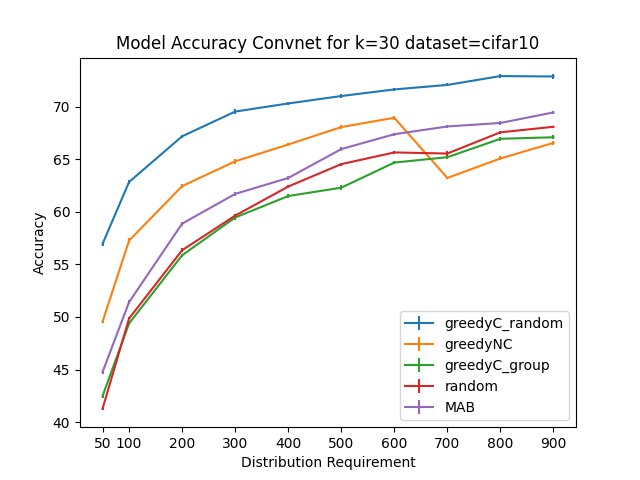
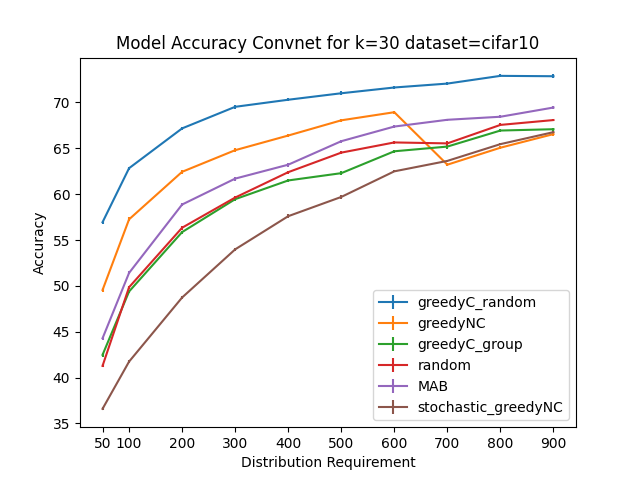
stochastic_greedy algo

diff --git a/ds-python/plot.py b/ds-python/plot.py
@@ -9,7 +9,7 @@ import pandas as pd
 import seaborn as sns 
 
 distribution_req = [50,100,200,300,400,500,600,700,800,900]
-# distribution_req = [100, 200, 300, 400, 500]
+# distribution_req = [50, 100, 200, 300, 400, 500, 600]
 
 def get_output_filename(params, i, algo_type):
     return METRIC_FILE.format(params.dataset, params.coverage_factor, i, algo_type, params.model_type)
@@ -173,6 +173,7 @@ def plot_coreset_metrics(data, params):
     for key, value in data.items():
         time_y = [v["response_time"]/60 for v in value]
         plt.plot(distribution_req, time_y, 'o--', label=key)
+        plt.legend()
     plt.xticks(distribution_req)
     plt.ylabel("Time(Minutes)")
     plt.xlabel("Distribution Requirement")
@@ -230,6 +231,7 @@ def plot_class_wise_acc(data, params):
         plt.xlabel('Classes')
         plt.ylabel('Accuracy')
         plt.title('Class Wise Accuracy Breakdown for Convnet for DR={0}'.format(dr))
+        plt.ylim(bottom=0)
         plot_filename = "./figures/class_wise/ml_acc_dr_{0}_dataset_{1}".format(dr, params.dataset)
         plt.savefig(plot_filename)
         plt.cla()
@@ -266,32 +268,36 @@ if __name__=="__main__":
     greedyC_group_metric_files = [get_output_filename(params, i, 'greedyC_group') for i in distribution_req]
     random_metric_files = [get_output_filename(params, i, 'random') for i in distribution_req]
     bandit_metric_files = [get_output_filename(params, i, 'MAB') for i in distribution_req]
+    stochastic_greedyNC_metric_files = [get_output_filename(params, i, 'stochastic_greedyNC') for i in distribution_req]
 
 
 
-    # coreset_data = { 
-    #     'greedyC_random' : [get_metrics(f) for f in greedyC_random_metrics_files],
-    #     'greedyNC': [get_metrics(f) for f in greedyNC_metrics_files],
-    #     'greedyC_group' : [get_metrics(f) for f in greedyC_group_metric_files],
-    #     'random' : [get_metrics(f) for f in random_metric_files],
-    #     'MAB' : [get_metrics(f) for f in bandit_metric_files]
-    # }
+    coreset_data = { 
+        'greedyC_random' : [get_metrics(f) for f in greedyC_random_metrics_files],
+        'greedyNC': [get_metrics(f) for f in greedyNC_metrics_files],
+        'greedyC_group' : [get_metrics(f) for f in greedyC_group_metric_files],
+        'random' : [get_metrics(f) for f in random_metric_files],
+        'MAB' : [get_metrics(f) for f in bandit_metric_files],
+        'stochastic_greedyNC' : [get_metrics(f) for f in stochastic_greedyNC_metric_files]
+    }
 
-    # model_data = { 
-    #     'greedyC_random' : [find_best_model(f) for f in greedyC_random_metrics_files],
-    #     'greedyNC': [find_best_model(f) for f in greedyNC_metrics_files],
-    #     'greedyC_group' : [find_best_model(f) for f in greedyC_group_metric_files],
-    #     'random' : [find_best_model(f) for f in random_metric_files],
-    #     'MAB' : [find_best_model(f) for f in bandit_metric_files]
-    # }
+    model_data = { 
+        'greedyC_random' : [find_best_model(f) for f in greedyC_random_metrics_files],
+        'greedyNC': [find_best_model(f) for f in greedyNC_metrics_files],
+        'greedyC_group' : [find_best_model(f) for f in greedyC_group_metric_files],
+        'random' : [find_best_model(f) for f in random_metric_files],
+        'MAB' : [find_best_model(f) for f in bandit_metric_files],
+        'stochastic_greedyNC' : [find_best_model(f) for f in stochastic_greedyNC_metric_files]
+    }
 
-    # score_data = { 
-    #     'greedyC_random' : [score_method(a, m, params) for a,m in zip(coreset_data['greedyC_random'], model_data['greedyC_random'])],
-    #     'greedyNC': [score_method(a, m, params) for a,m in zip(coreset_data['greedyNC'], model_data['greedyNC'])],
-    #     'greedyC_group' : [score_method(a, m, params) for a,m in zip(coreset_data['greedyC_group'], model_data['greedyC_group'])],
-    #     'random' : [score_method(a, m, params) for a,m in zip(coreset_data['random'], model_data['random'])],
-    #     'MAB' : [score_method(a, m, params) for a,m in zip(coreset_data['MAB'], model_data['MAB'])]
-    # }
+    score_data = { 
+        'greedyC_random' : [score_method(a, m, params) for a,m in zip(coreset_data['greedyC_random'], model_data['greedyC_random'])],
+        'greedyNC': [score_method(a, m, params) for a,m in zip(coreset_data['greedyNC'], model_data['greedyNC'])],
+        'greedyC_group' : [score_method(a, m, params) for a,m in zip(coreset_data['greedyC_group'], model_data['greedyC_group'])],
+        'random' : [score_method(a, m, params) for a,m in zip(coreset_data['random'], model_data['random'])],
+        'MAB' : [score_method(a, m, params) for a,m in zip(coreset_data['MAB'], model_data['MAB'])],
+        'stochastic_greedyNC': [score_method(a, m, params) for a,m in zip(coreset_data['stochastic_greedyNC'], model_data['stochastic_greedyNC'])]
+    }
     
     # algo_type : [[class_wise_acc for dist = i] for i in distritbution_req]
     class_wise_accuracy_data = {
@@ -299,10 +305,11 @@ if __name__=="__main__":
         'greedyC_group' : [get_class_wise_accuracy(f, params) for f in greedyC_group_metric_files],
         'greedyNC' : [get_class_wise_accuracy(f, params) for f in greedyNC_metrics_files],
         'random' : [get_class_wise_accuracy(f, params) for f in random_metric_files],
-        'MAB' : [get_class_wise_accuracy(f, params) for f in bandit_metric_files]
+        'MAB' : [get_class_wise_accuracy(f, params) for f in bandit_metric_files],
+        'stochastic_greedyNC' : [get_class_wise_accuracy(f, params) for f in stochastic_greedyNC_metric_files]
     }
 
-    # plot_coreset_metrics(data=coreset_data, params=params)
-    # plot_ml_metrics(data=model_data, params=params)
-    # plot_score(data=score_data, params=params)
+    plot_coreset_metrics(data=coreset_data, params=params)
+    plot_ml_metrics(data=model_data, params=params)
+    plot_score(data=score_data, params=params)
     plot_class_wise_acc(data=class_wise_accuracy_data, params=params)

diff --git a/ds-python/algorithms.py b/ds-python/algorithms.py
@@ -274,6 +274,83 @@ def greedyNC(coverage_factor, distribution_req, dataset_name, dataset_size, cov_
     return solution, cscore, res_time
 
 
+def stochastic_greedyNC(coverage_factor, distribution_req, dataset_name, dataset_size, cov_threshold, posting_list):
+    '''
+    Computes the greedy fair set cover for the entire dataset
+    @params
+        coverage_factor : number of points needed for a point to be covered
+        distribution_req : number of points from each group
+        sp : sampling weight to get the correct posting_list directory
+    @returns
+        solution of the greedy fair set cover that satisfies the coverage and 
+        distribution requirements
+        coverage score for this solution
+        time taken 
+    '''
+
+    
+    '''
+    TODO: generate metadata on the fly, use the following to pass params to the utils_algo function
+        params = lambda : None 
+        params.dataset = 'cifar10'
+        params.coverage_threshold = 0.9
+    '''
+    start_time = time.time()
+    label_file = open(LABELS_FILE_LOC.format(dataset_name), 'r')
+    label_ids_to_name = {0 : "airplane", 1 : "automobile", 2 : "bird", 3 : "cat", 4 : "deer", 5 : "dog", 6 : "frog", 7 : "horse", 8 : "ship", 9 : "truck"}
+
+
+    delta_size = dataset_size
+    delta = set(posting_list.keys())
+    for key, value in posting_list.items():
+        arr = np.zeros(delta_size)
+        arr[list(value)] = 1
+        posting_list[key] = arr
+
+    # class labels for points
+    labels = label_file.readlines()
+    labels_dict = dict()    
+    for l in labels:
+        txt = l.split(':')
+        key = int(txt[0].strip())
+        label = int(txt[1].strip())
+        if key in posting_list:
+            arr = np.zeros(len(label_ids_to_name.keys()))
+            arr[label] = 1
+            labels_dict[key] = arr
+    
+    label_file.close()
+    CC = np.empty(delta_size) # coverage tracker
+    CC[list(delta)] = coverage_factor
+    GC = np.array(distribution_req) # group count tracker
+    solution = set() # solution set
+    stch = 500 # stochastic step size 
+    # main loop
+    while ((not check_for_zeros(CC)) or (not check_for_zeros(GC))) and len(solution) < len(delta):
+        best_point, max_score = -1, float('-inf')
+        # toDo: optimize this loop using scipy
+        stochastic_sample = random.sample(delta.difference(solution), stch)
+        for p in stochastic_sample:
+            p_score = coverage_score(CC, posting_list[p]) + distritbution_score(GC, labels_dict[p])
+            if p_score > max_score:
+                max_score = p_score
+                best_point = p
+
+        if best_point == -1:
+            print("cannot find a point")
+            break
+
+        solution.add(best_point)
+        CC = np.subtract(CC, posting_list[best_point])
+        GC = np.subtract(GC, labels_dict[best_point])
+
+    end_time = time.time()
+    print(len(solution)) 
+    cscore = calculate_cscore(solution, posting_list, delta_size)
+    res_time = end_time - start_time
+    return solution, cscore, res_time
+
+
 def random_algo(labels_dict, distribution_req):
     start_time = time.time()    
     coreset = []

diff --git a/ds-python/main_algo.py b/ds-python/main_algo.py
@@ -21,6 +21,12 @@ def run_algo(params):
         posting_list = get_full_data_posting_list(params, params.model_type)    
         s, cscore, res_time = greedyNC(params.coverage_factor, dist_req, params.dataset, params.dataset_size, params.coverage_threshold, posting_list)
         solution_data.append((s, cscore, res_time))
+    
+    elif params.algo_type == 'stochastic_greedyNC':
+        dist_req = [params.distribution_req] * params.num_classes
+        posting_list = get_full_data_posting_list(params, params.model_type)    
+        s, cscore, res_time = stochastic_greedyNC(params.coverage_factor, dist_req, params.dataset, params.dataset_size, params.coverage_threshold, posting_list)
+        solution_data.append((s, cscore, res_time))
 
     elif params.algo_type == 'greedyC_random':
         dist_req = [math.ceil(params.distribution_req) / params.partitions] * params.num_classes
@@ -85,6 +91,7 @@ def run_algo(params):
         response_time = max(response_time, t[2])
     
     print('Time Taken:{0}'.format(response_time))
+    print('Solution Size: {0}'.format(len(coreset)))
     # report metrics
     metric_file_name = METRIC_FILE.format(params.dataset, params.coverage_factor, params.distribution_req, params.algo_type, params.model_type)
     with open(metric_file_name, 'w') as f:
@@ -113,7 +120,7 @@ if __name__ == "__main__":
     parser.add_argument('--dataset', type=str, default='cifar10', help='dataset to use')
     parser.add_argument('--coverage_threshold', type=float, default=0.9, help='coverage threshold to generate metadata')
     parser.add_argument('--partitions', type=int, default=10, help="number of partitions")
-    parser.add_argument('--algo_type', type=str, default='random', help='which algorithm to use [greedyNC, greedyC, MAB, random, herding, k_center, forgetting]')
+    parser.add_argument('--algo_type', type=str, default='stochastic_greedyNC', help='which algorithm to use [greedyNC, greedyC, MAB, random, herding, k_center, forgetting]')
     parser.add_argument('--distribution_req', type=int, default=50, help='number of samples ')
     parser.add_argument('--coverage_factor', type=int, default=30, help='defining the coverage factor')
     parser.add_argument('--model_type', type=str, default='resnet', help='model used to produce the feature_vector')
@@ -134,7 +141,7 @@ if __name__ == "__main__":
 
     #run_algo(params)
     
-    run_algo(params)
+    # run_algo(params)
     distribution_req = [0, 50, 100, 200, 300, 400, 500, 600, 700, 800, 900]
     
     for i in distribution_req:

diff --git a/ds-python/main_model.py b/ds-python/main_model.py
@@ -229,9 +229,9 @@ if __name__=="__main__":
     # params for data description
     parser.add_argument('--dataset', type=str, default="cifar10")
     parser.add_argument('--coreset', type=int, default=1)
-    parser.add_argument('--algo_type', type=str, default="MAB")
+    parser.add_argument('--algo_type', type=str, default="stochastic_greedyNC")
     parser.add_argument('--coverage_factor', type=int, default=30)
-    parser.add_argument('--distribution_req', type=int, default=50)
+    parser.add_argument('--distribution_req', type=int, default=500)
     parser.add_argument('--partitions', type=int, default=10, help='number of partitions')
     parser.add_argument('--model_type', type=str, default='resnet')
     # parse all parameters
@@ -263,5 +263,5 @@ if __name__=="__main__":
 
     model = model.to(device)
     model = torch.nn.parallel.DataParallel(model, device_ids=DEVICE_IDS)
-    # train_and_test(model, params)
+    train_and_test(model, params)
     class_wise_test_acc(model, params)

diff --git a/ds-python/paths.py b/ds-python/paths.py
@@ -44,7 +44,7 @@ MODELS = {'resnet' : 512, 'alexnet' : 4096, 'densenet' : 1024, 'efficientnet_b0'
             'efficientnet_b3' : 1536, 'efficientnet_b4' : 1792, 'efficientnet_b5' : 2048, 'efficientnet_b6' : 2304, 'efficientnet_b7' : 2560}
 
 # define device type, number of GPUs available
-DEVICE_IDS = [0, 1, 2]
+DEVICE_IDS = [0, 1]
 device = torch.device('cuda' if torch.cuda.is_available() else 'cpu')
 
 # paths for model-data/
